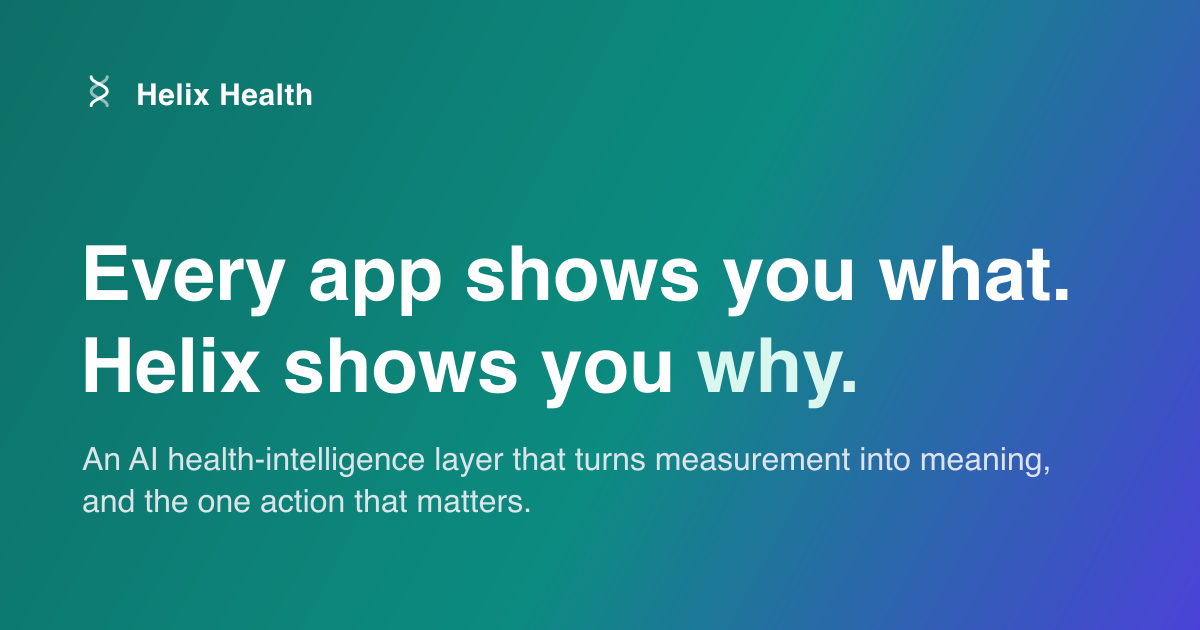
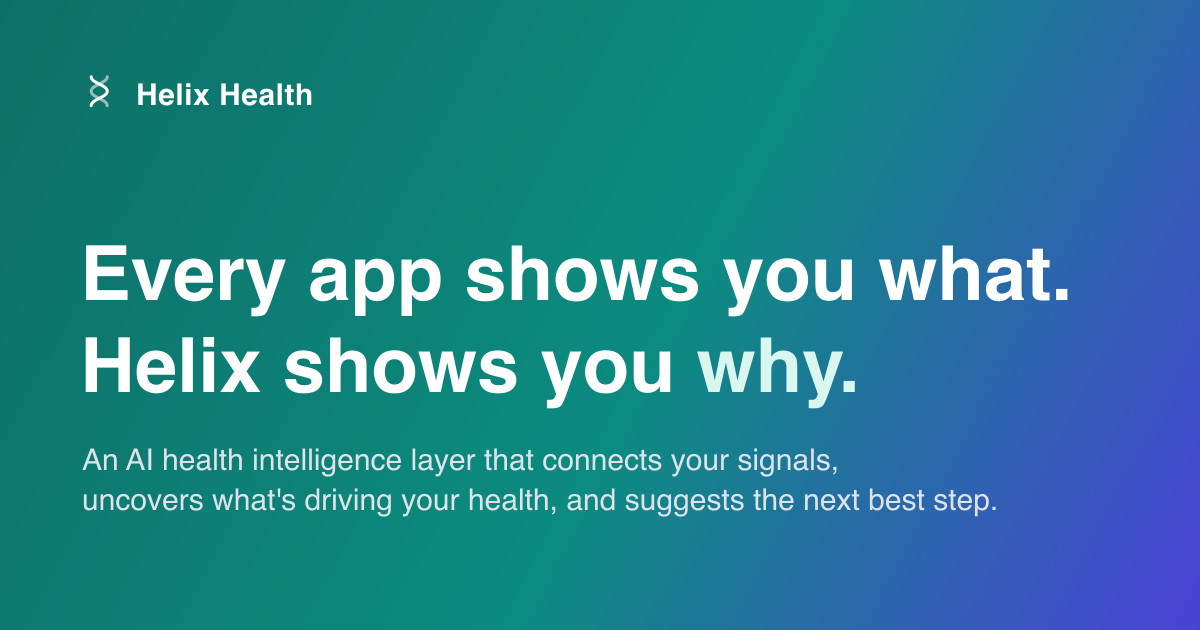
Update subtitle/share description copy + OG image

Changed region(s): [[0.0617, 0.6937, 0.8942, 0.8143]]

diff --git a/scripts/make-og.ts b/scripts/make-og.ts
@@ -29,8 +29,8 @@ const svg = `<svg width="1200" height="630" viewBox="0 0 1200 630" xmlns="http:/
   <text x="80" y="392" font-family="Helvetica, Arial, sans-serif" font-size="76" font-weight="700" fill="#ffffff">Helix shows you <tspan fill="#d9f7ef">why.</tspan></text>
 
   <!-- subtitle -->
-  <text x="82" y="470" font-family="Helvetica, Arial, sans-serif" font-size="32" fill="#e6e9ef" opacity="0.95">An AI health-intelligence layer that turns measurement into meaning,</text>
-  <text x="82" y="512" font-family="Helvetica, Arial, sans-serif" font-size="32" fill="#e6e9ef" opacity="0.95">and the one action that matters.</text>
+  <text x="82" y="470" font-family="Helvetica, Arial, sans-serif" font-size="30" fill="#e6e9ef" opacity="0.95">An AI health intelligence layer that connects your signals,</text>
+  <text x="82" y="510" font-family="Helvetica, Arial, sans-serif" font-size="30" fill="#e6e9ef" opacity="0.95">uncovers what's driving your health, and suggests the next best step.</text>
 </svg>`;
 
 async function main() {

diff --git a/src/app/login/page.tsx b/src/app/login/page.tsx
@@ -25,8 +25,8 @@ export default async function LoginPage({
             Helix shows you <span className="gradient-text">why</span>.
           </h1>
           <p className="mt-3 text-sm text-[var(--color-muted)]">
-            An AI health-intelligence layer that connects your signals into a causal
-            model, and the one action that matters.
+            An AI health intelligence layer that connects your signals, uncovers
+            what&rsquo;s driving your health, and suggests the next best step.
           </p>
         </div>
 

diff --git a/src/app/layout.tsx b/src/app/layout.tsx
@@ -19,7 +19,7 @@ const geistMono = Geist_Mono({
 const SITE_URL = "https://helixhealth.vercel.app";
 const OG_TITLE = "Helix Health: Every app shows you what. Helix shows you why.";
 const OG_DESCRIPTION =
-  "An AI health-intelligence layer that connects your signals into a causal model, and the one action that matters.";
+  "An AI health intelligence layer that connects your signals, uncovers what's driving your health, and suggests the next best step.";
 
 export const metadata: Metadata = {
   metadataBase: new URL(SITE_URL),